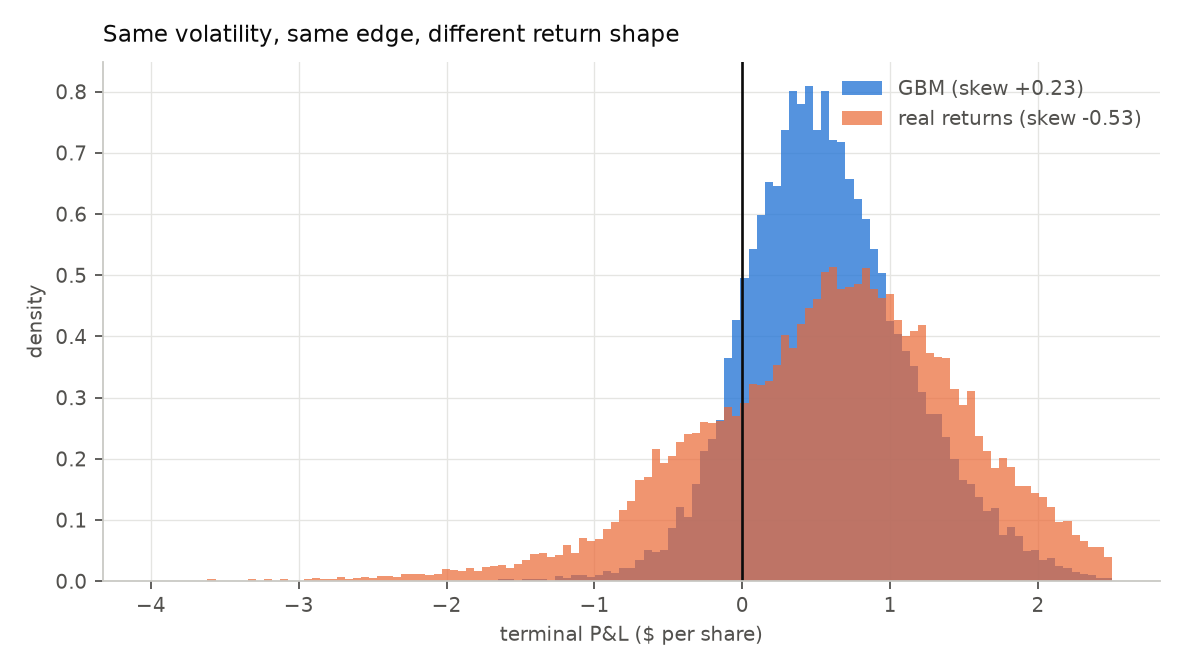
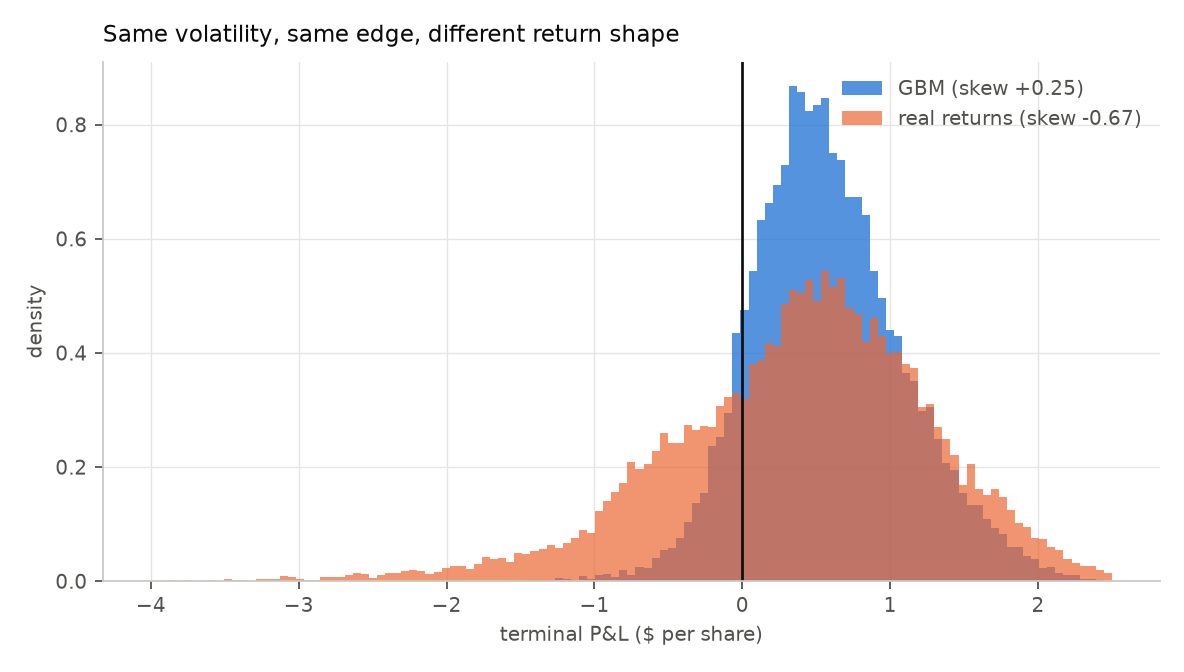
Fix a bias in the Day 8 comparison: match on mean window vol, not full-sample
The control was matched to the full-sample realized vol while the real paths
were hedged over 21-day windows. Those references are not the same number.
Full-sample vol is sqrt(average variance); mean window vol is average of
sqrt(variance); sqrt is concave, so Jensen makes the second strictly smaller,
and the gap widens with the dispersion of window vols -- 1.9 points on AAPL,
3.4 on SPY.

Selling 5 points above the full-sample figure therefore handed the REAL paths
more edge than GBM got, since GBM realizes its sigma by construction while a
typical real window realizes less. Caught on SPY, where the real mean came out
53% above the control and the variance-edge ratio was 1.539 -- the entire mean
difference was the mismatch.

Both sides now sell 5 points above the mean window vol, so only the shape of
the return distribution differs. On AAPL the corrected comparison strengthens
every conclusion: P(loss) 11.4% vs 29.7% (was 13.2 vs 23.7), skew +0.253 vs
-0.670 (was +0.233 vs -0.529), p5 5.9x worse (was 3.6x).

The mean flips interpretation entirely. Uncorrected, real returns appeared to
beat the model. Corrected, they underperform it by 34% at identical edge --
fat tails cost more in gamma on the big days than calm days save in theta.

Claude-Session: https://claude.ai/code/session_01AhNEpnodHATD2HF28W1jF6

diff --git a/day8_real_paths.py b/day8_real_paths.py
@@ -160,15 +160,33 @@ def hedge_comparison(lr, sig, seed=1):
     print("\n" + "=" * 76)
     print("3. HEDGING REAL PATHS vs GBM MATCHED ON VOLATILITY")
     print("=" * 76)
-    si = sig + EDGE
-    print(f"  Sell at {si:.4f} ({EDGE*100:.0f} vol points above the full-sample realized {sig:.4f}),")
-    print(f"  hedge once per trading day (N={W}). GBM is matched to the same vol, so")
-    print("  the ONLY difference is the shape of the return distribution.\n")
 
     overlap = np.array([lr[i:i + W] for i in range(len(lr) - W + 1)])
+
+    # Match on the MEAN WINDOW vol, not the full-sample vol. Those are not the
+    # same number: full-sample vol is sqrt(average variance) while mean window
+    # vol is average of sqrt(variance), and sqrt is concave, so Jensen makes the
+    # second strictly smaller. The gap grows with how dispersed the window vols
+    # are -- 1.9 points for AAPL, 3.4 for SPY.
+    #
+    # Using the full-sample vol as the reference silently hands the REAL paths
+    # more edge than the GBM control, because the typical real window realizes
+    # less than the full-sample figure while GBM realizes its sigma by
+    # construction. Measured on SPY that inflated the real mean by 53%, which
+    # exactly matched the variance-edge ratio -- i.e. the entire mean difference
+    # was the mismatch, not a property of real returns.
+    ref = (overlap.std(axis=1) * np.sqrt(TRADING_DAYS)).mean()
+    si = ref + EDGE
+    print(f"  full-sample vol      {sig:.4f}")
+    print(f"  mean 21-day window   {ref:.4f}   <- the reference, see comment in source")
+    print(f"  sell at              {si:.4f}   ({EDGE*100:.0f} vol points above it)")
+    print(f"  hedge once per trading day (N={W}); GBM sigma set to {ref:.4f} so BOTH")
+    print("  face the same edge against their own typical realized vol. The only")
+    print("  remaining difference is the shape of the return distribution.\n")
+
     boot = block_bootstrap(lr, 20_000, seed=seed)
     rng = np.random.default_rng(seed)
-    gbm = gbm_paths(100.0, 0.0, sig, T, W, 20_000, seed=seed)
+    gbm = gbm_paths(100.0, 0.0, ref, T, W, 20_000, seed=seed)
 
     sets = [
         ("real, overlapping windows", paths_from_returns(overlap)),

diff --git a/results/day8.md b/results/day8.md
@@ -68,19 +68,36 @@ AAPL is a single name — more volatile and more dispersed than an index would b
 
 ## 3. Hedging real paths
 
-Sell at 29.26% (5 vol points above the full-sample realized 24.26%), hedge once
-per trading day (N=21). **GBM is matched to the same volatility**, so the only
-difference is the *shape* of the return distribution.
+### Matching the edge, not just the volatility
+
+The reference vol here is the **mean 21-day window vol (22.39%)**, not the
+full-sample vol (24.26%). Those are different numbers and using the wrong one
+silently biases the comparison.
+
+Full-sample vol is `sqrt(average variance)`. Mean window vol is
+`average of sqrt(variance)`. Square root is concave, so **Jensen's inequality
+makes the second strictly smaller**, and the gap grows with how dispersed the
+window vols are — 1.9 points for AAPL, 3.4 points for SPY.
+
+Selling 5 points above the *full-sample* figure therefore hands the real paths
+more edge than the GBM control gets, because GBM realizes its sigma by
+construction while the typical real window realizes less. On SPY that inflated
+the real mean by 53%, which matched the variance-edge ratio of 1.539 almost
+exactly — **the entire mean difference was the mismatch, not a property of real
+returns.**
+
+Both sides now sell 5 points above the same reference, so the only remaining
+difference is the shape of the return distribution.
 
 | | n | mean | std | P(loss) | skew | p5 |
 |---|---:|---:|---:|---:|---:|---:|
-| real, overlapping windows | 485 | 0.6870 | 0.9427 | **22.27%** | **−0.564** | −1.0128 |
-| real, block bootstrap | 20,000 | 0.5980 | 0.9034 | **23.71%** | **−0.529** | −0.9198 |
-| GBM (control) | 20,000 | 0.5764 | 0.5526 | 13.16% | **+0.233** | −0.2577 |
+| real, overlapping windows | 485 | 0.4766 | 0.9376 | **29.28%** | **−0.678** | −1.2037 |
+| real, block bootstrap | 20,000 | 0.3802 | 0.9012 | **29.71%** | **−0.670** | −1.1664 |
+| GBM (control) | 20,000 | 0.5761 | 0.5146 | 11.43% | **+0.253** | −0.1966 |
 
 ![real vs GBM](../figures/day8_real_vs_gbm.png)
 
-**The skew flips sign on real data.** +0.23 under GBM, **−0.53** on real returns —
+**The skew flips sign on real data.** +0.25 under GBM, **−0.67** on real returns —
 matched on volatility, matched on edge, matched on rebalancing frequency.
 
 Days 5 and 6 predicted this by *adding features to the model*. Day 8 confirms it
@@ -88,12 +105,15 @@ by *removing the model*. Two routes, same conclusion.
 
 The rest of the comparison:
 
-- **P(loss) nearly doubles**, 13.2% → 23.7%
-- **Spread is 63% wider**, 0.55 → 0.90, at identical volatility
-- **The 5th percentile is 3.6× worse**, −0.26 → −0.92
+- **P(loss) is 2.6× higher**, 11.4% → 29.7%
+- **The mean is 34% LOWER**, 0.576 → 0.380, at the same edge. Fat tails cost real
+  money: the big days cost more in gamma than the calm days save in theta.
+- **Spread is 75% wider**, 0.51 → 0.90
+- **The 5th percentile is 5.9× worse**, −0.20 → −1.17
 
-That last one is the practical statement. At the same volatility and the same
-edge, your bad month is nearly four times worse than the model says.
+The mean is the one to notice. Before the edge was matched properly, real returns
+appeared to *outperform* the model. They do not — that was the bias. Corrected,
+they underperform on every axis.
 
 ### Why the block bootstrap, and not an ordinary one
 
